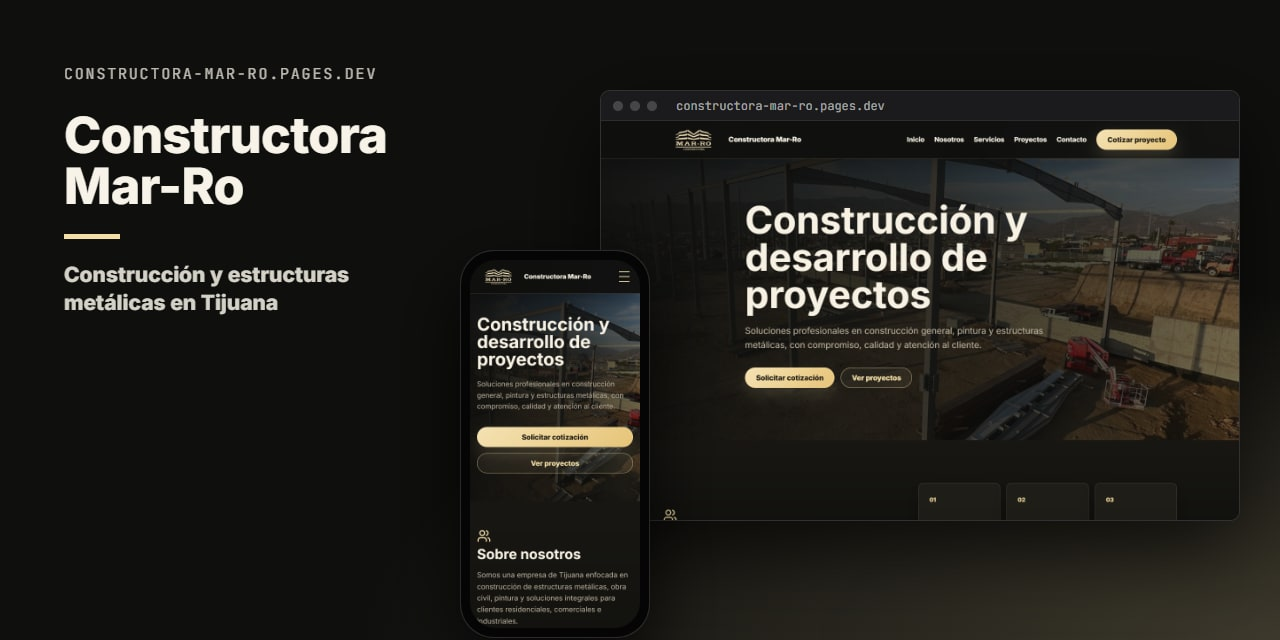
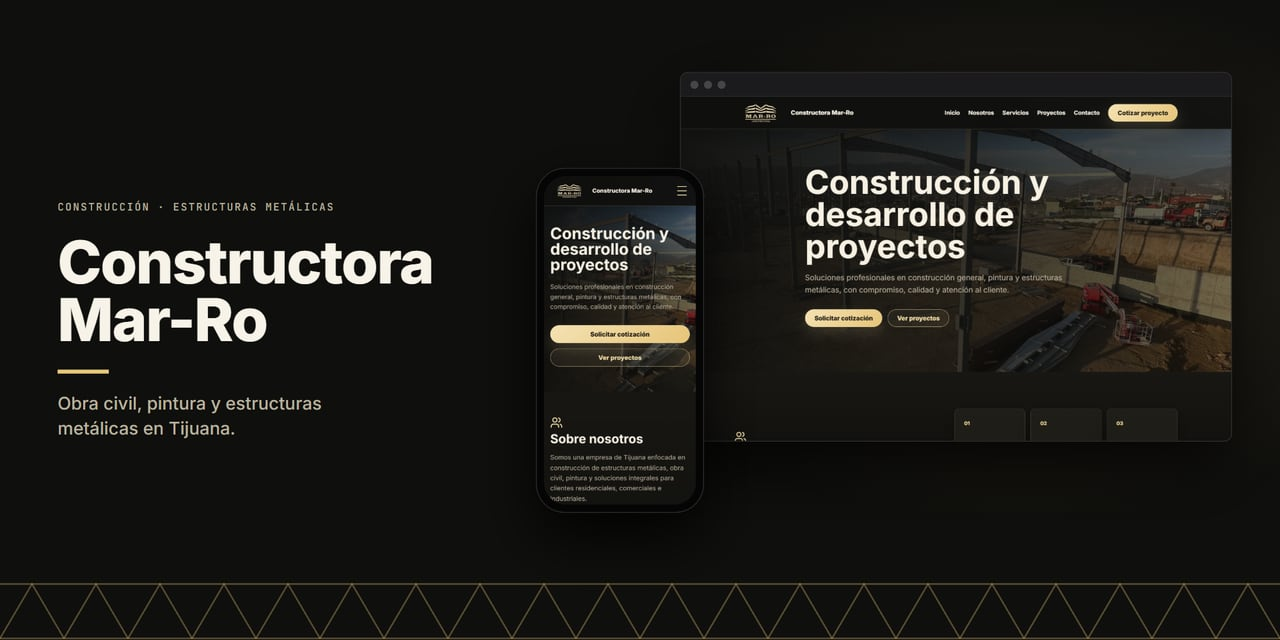
README: portadas por marca, capturas en celular y sin enlaces

diff --git a/README.md b/README.md
@@ -1,5 +1,5 @@
 <p align="center">
-  <img alt="Constructora Mar-Ro — Construcción y estructuras metálicas en Tijuana. Vista del sitio en computadora y celular" src="docs/img/portada.jpg" width="100%">
+  <img alt="Constructora Mar-Ro: Construcción y estructuras metálicas en Tijuana" src="docs/img/portada.jpg" width="100%">
 </p>
 
 <h1 align="center">Constructora Mar-Ro</h1>
@@ -7,69 +7,62 @@
 <p align="center"><b>Construcción y estructuras metálicas en Tijuana</b></p>
 
 <p align="center">
-  <a href="https://constructora-mar-ro.pages.dev/"><b>Ver el sitio →</b></a><br><br>
   <img alt="HTML5" src="https://img.shields.io/badge/HTML5-e34f26?style=flat-square&logo=html5&logoColor=white">
   <img alt="CSS3" src="https://img.shields.io/badge/CSS3-663399?style=flat-square&logo=css&logoColor=white">
   <img alt="JavaScript" src="https://img.shields.io/badge/JavaScript-b8a200?style=flat-square&logo=javascript&logoColor=white">
-  <img alt="Responsive" src="https://img.shields.io/badge/Responsive-f3dfa6?style=flat-square&logo=googlechrome&logoColor=white">
+  <img alt="Responsive" src="https://img.shields.io/badge/Responsive-c9a55a?style=flat-square&logo=googlechrome&logoColor=white">
 </p>
 
 ## Sobre el proyecto
 
-Sitio de **Constructora Mar-Ro**, Tijuana: estructuras metálicas, obra civil, pintura y construcción general, con galería de proyectos y una página de detalle por proyecto.
+Sitio de **Constructora Mar-Ro**, Tijuana: estructuras metálicas, obra civil, pintura y construcción general. Tiene una galería con todos los proyectos y una página de detalle para cada uno, generada a partir de `project-data.js`.
 
-Es un sitio estático: HTML, CSS y JavaScript sin frameworks ni proceso de build.
+Es un sitio estático, hecho con HTML, CSS y JavaScript, sin frameworks ni proceso de build.
 
 ## Secciones
 
 | Sección | Contenido |
 | --- | --- |
-| **Inicio** | Nosotros, servicios, proyectos destacados y contacto (`index.html`) |
-| **Proyectos** | Galería de todos los proyectos (`proyectos.html`) |
-| **Proyecto** | Detalle de cada proyecto (`proyecto.html`), con los datos en `project-data.js` |
+| **Inicio** | Nosotros, servicios, proyectos destacados y contacto |
+| **Proyectos** | Galería de todos los proyectos |
+| **Proyecto** | Detalle de cada proyecto con sus fotos |
 
-## Capturas
+## En computadora
 
 <p align="center">
-  <img alt="Constructora Mar-Ro en computadora" src="docs/img/escritorio.jpg" width="72%">
-  &nbsp;
-  <img alt="Constructora Mar-Ro en celular" src="docs/img/movil.jpg" width="22%">
+  <img alt="Constructora Mar-Ro en computadora" src="docs/img/escritorio.jpg" width="100%">
+</p>
+
+## En celular
+
+<p align="center">
+  <img alt="Constructora Mar-Ro en celular: tres pantallas" src="docs/img/celular.jpg" width="100%">
 </p>
 
 ## Tecnologías
 
-- HTML5, CSS3 y JavaScript, sin frameworks ni proceso de build.
-- Íconos de [Lucide](https://lucide.dev/) (desde CDN).
-- Tipografía de Google Fonts (Inter).
+- HTML5, CSS3 y JavaScript.
 - Diseño adaptable a celular, tableta y computadora.
-- Publicado con **Cloudflare Workers** (assets estáticos, ver `wrangler.jsonc`).
+- Íconos de Lucide.
+- Tipografía de Google Fonts: Inter.
+- Publicado con Cloudflare Workers (assets estáticos, `wrangler.jsonc`).
 
 ## Estructura
 
 ```
 Constructora-Mar-Ro/
-├── docs/                       # Imágenes de este README
-├── index.html                  # Página principal
+├── docs/                   # Imágenes de este README
+├── index.html              # Página principal
 ├── Logo.jpg
-├── project-data.js             # Datos de los proyectos
-├── proyecto.html               # Detalle de proyecto
+├── project-data.js         # Datos de los proyectos
+├── proyecto.html           # Detalle de proyecto
 ├── Proyectos/
-├── proyectos.html              # Galería de proyectos
-├── script.js                   # Interacciones (menú, animaciones)
-├── styles.css                  # Estilos
-└── wrangler.jsonc              # Configuración de Cloudflare Workers
+├── proyectos.html          # Galería de proyectos
+├── script.js               # Interacciones y animaciones
+├── styles.css              # Estilos
+└── wrangler.jsonc          # Configuración de Cloudflare Workers
 ```
-
-## Correr en local
-
-No necesita instalar nada. Abre `index.html` en el navegador, o sírvelo desde la carpeta del repo:
-
-```bash
-python -m http.server 8000
-```
-
-y entra a <http://localhost:8000>.
 
 ## Créditos
 
-Desarrollado por [@Salereee](https://github.com/Salereee). Logotipos, fotografías y textos del negocio pertenecen a Constructora Mar-Ro.
+Desarrollado por Salereee. Logotipos, fotografías y textos del negocio pertenecen a Constructora Mar-Ro.
